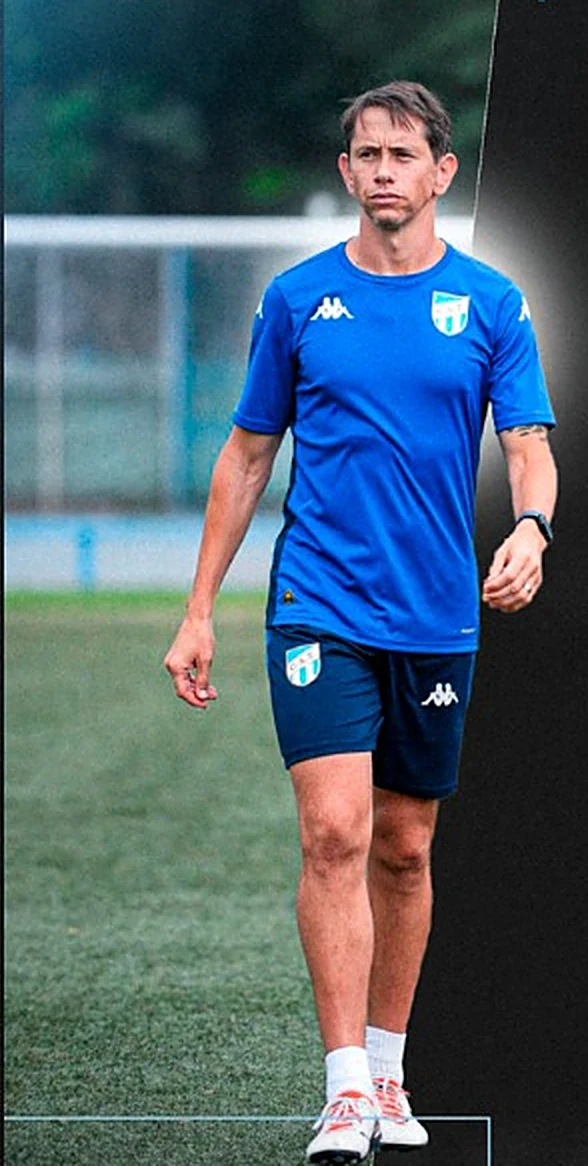
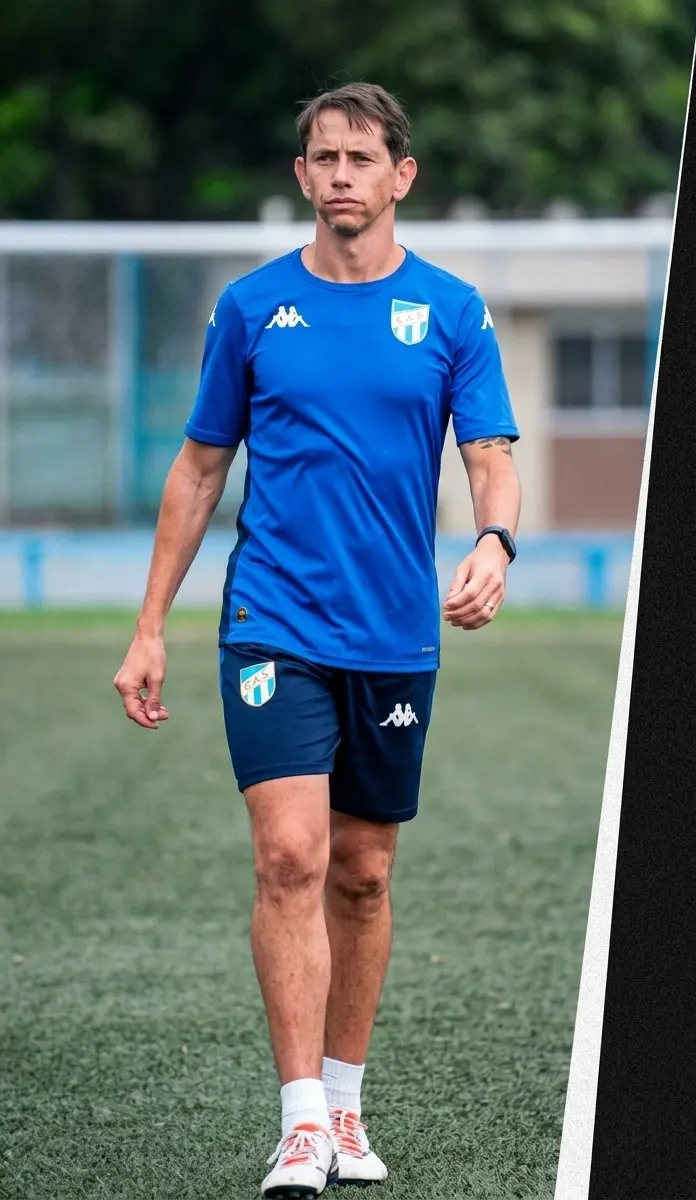
finals progress

diff --git a/src/components/Hero/Hero.jsx b/src/components/Hero/Hero.jsx
@@ -9,15 +9,6 @@ import '../../styles/globals.css'
 
 gsap.registerPlugin(ScrollTrigger)
 
-// ─────────────────────────────────────────────────────────────
-// HERO · Opción D "Coach Panel" (línea Rondelli)
-//  · Nombre gigante en 3 líneas detrás de la foto (outline / sólido / outline)
-//  · Foto principal revelada desde abajo (clip-path)
-//  · Foto secundaria en grises con máscara radial de fondo
-//  · Panel RG + datos exactos de la placa
-//  · Pestaña lateral de Partidos: último resultado + próximo (MatchBox)
-//  · Sticky 200vh + viñeta que se cierra con el scroll
-// ─────────────────────────────────────────────────────────────
 
 /* Número destacado dentro de "+160 partidos y 13 titulos" */
 function Num({ children }) {
@@ -26,7 +17,7 @@ function Num({ children }) {
       as="span"
       fontFamily="heading"
       color="brand.celeste"
-      fontSize="1.9em"
+      fontSize="1.5em"
       lineHeight={0.8}
       verticalAlign="-0.12em"
       letterSpacing="0.02em"
@@ -53,7 +44,7 @@ function CoachPanel() {
           sx={{ WebkitTextStroke: `2px ${celeste}` }}
           aria-hidden="true"
         >
-          {initials}
+          DT
         </Text>
         <Box className="hero-panel-item" w="1px" alignSelf="stretch" bg="brand.celeste" opacity={0.8} />
         <Flex
@@ -64,13 +55,13 @@ function CoachPanel() {
           letterSpacing="0.14em"
           textTransform="uppercase"
         >
-          <Text color="brand.celeste" fontWeight="700" fontSize="clamp(13px, 1.35vw, 24px)">
+          <Text color="brand.celeste" fontWeight="700" fontSize="clamp(13px, 1.35vw, 18px)">
             {hero.role}
           </Text>
-          <Text color="brand.bone" fontWeight="500" fontSize="clamp(12px, 1.25vw, 22px)">
+          <Text color="brand.bone" fontWeight="500" fontSize="clamp(12px, 1.25vw, 16px)">
             {hero.license}
           </Text>
-          <Text color="brand.bone" fontWeight="500" fontSize="clamp(12px, 1.25vw, 22px)">
+          <Text color="brand.bone" fontWeight="500" fontSize="clamp(12px, 1.25vw, 16px)">
             {hero.exPlayer}
           </Text>
         </Flex>
@@ -180,8 +171,8 @@ export default function Hero() {
           display="flex"
           justifyContent="center"
           alignItems="flex-start"
-          pt={{ base: '8vh', lg: '4vh' }}
-          pl={{ base: 0, lg: '6vw' }}
+          pt={{ base: '2vh', lg: '4vh' }}
+          pl={{ base: '50vw', lg: '56vw' }}
           sx={{
             maskImage: 'radial-gradient(120% 90% at 50% 30%, black 35%, transparent 78%)',
             WebkitMaskImage: 'radial-gradient(120% 90% at 50% 30%, black 35%, transparent 78%)',
@@ -214,25 +205,25 @@ export default function Hero() {
           justify="center"
           pl={{ base: 4, lg: '16vw' }}
           pr={{ base: 4, lg: 0 }}
-          pt={{ base: '14vh', lg: 0 }}
+          pt={{ base: '20vh', lg: 0 }}
           mt={{ base: 0, lg: '-12vh' }}
         >
           <Flex as="h1" direction="column" fontFamily="heading" lineHeight={0.9} letterSpacing="0.01em" m={0}>
             <Box as="span" display="block" overflow="hidden">
               <Box as="span" className="hero-name-line" display="block"
-                fontSize={{ base: '15vw', md: '11vw', lg: '9vw' }} sx={outline}>
+                fontSize={{ base: '22vw', md: '11vw', lg: '9vw' }} sx={outline}>
                 {l1}
               </Box>
             </Box>
             <Box as="span" display="block" overflow="hidden" mt={{ base: '-1vw', lg: '-1.2vw' }}>
               <Box as="span" className="hero-name-line" display="block"
-                fontSize={{ base: '22vw', md: '16vw', lg: '13vw' }} color="brand.bone">
+                fontSize={{ base: '29vw', md: '16vw', lg: '13vw' }} color="brand.bone">
                 {l2}
               </Box>
             </Box>
             <Box as="span" display="block" overflow="hidden" alignSelf="flex-end" mt={{ base: '-1vw', lg: '-1vw' }}>
               <Box as="span" className="hero-name-line" display="block"
-                fontSize={{ base: '15vw', md: '11vw', lg: '9vw' }} sx={outline}>
+                fontSize={{ base: '22vw', md: '11vw', lg: '9vw' }} sx={outline}>
                 {l3}
               </Box>
             </Box>
@@ -242,10 +233,10 @@ export default function Hero() {
         {/* Foto principal */}
         <Box
           position="absolute"
-          left={{ base: '50%', lg: '9vw' }}
+          left={{ base: '30%', lg: '15vw' }}
           transform={{ base: 'translateX(-35%)', lg: 'none' }}
           bottom={0}
-          h={{ base: '62vh', md: '68vh', lg: '93vh' }}
+          h={{ base: '64vh', md: '68vh', lg: '90vh' }}
           zIndex={9}
           pointerEvents="none"
         >
@@ -258,7 +249,7 @@ export default function Hero() {
               w="auto"
               maxW="none"
               draggable={false}
-              filter="drop-shadow(0 20px 40px rgba(0,0,0,0.55))"
+              
             />
           </Box>
         </Box>
@@ -291,19 +282,7 @@ export default function Hero() {
           <MatchBox last={matches.last} next={matches.next} />
         </Box>
 
-        {/* Indicador de scroll */}
-        <Box
-          className="hero-scroll-cue"
-          position="absolute"
-          left="50%"
-          bottom="2vh"
-          zIndex={18}
-          w="1px"
-          h="36px"
-          bgGradient={`linear(to-b, ${celeste}, transparent)`}
-          display={{ base: 'none', lg: 'block' }}
-          aria-hidden="true"
-        />
+       
 
         {/* Viñeta */}
         <Box

diff --git a/src/components/Career/CareerChapter.jsx b/src/components/Career/CareerChapter.jsx
@@ -6,17 +6,6 @@ import TacticsBoards from './TacticsBoards'
 
 gsap.registerPlugin(ScrollTrigger)
 
-// ─────────────────────────────────────────────────────────────
-// TRAYECTORIA · Capítulo de club (opción C "Capítulo")
-//  · Riel lateral con las fechas: la línea se llena con el scroll.
-//  · Título del club (contorno + sólido), escudo y totales con contador.
-//  · Funciones | Logros (trofeos + logros centrados debajo).
-//  · Rendimiento del equipo + Rachas destacadas.
-//  · Lema, párrafos con foto fija, responsabilidades y sistemas tácticos.
-// Cada bloque es opcional: se muestra solo si el club tiene esos datos.
-// Reutilizable: cada club es un objeto de careerData.js.
-// ─────────────────────────────────────────────────────────────
-
 /* Texto por segmentos (resaltado / negrita / cifra / chico) */
 function Segs({ segs, accent }) {
   return segs.map((s, i) => {
@@ -156,9 +145,9 @@ export default function CareerChapter({ club }) {
         right={{ base: '-30%', lg: '-6vw' }}
         top={{ base: 'auto', lg: '6vh' }}
         bottom={{ base: '30%', lg: 'auto' }}
-        h={{ base: '60vh', lg: '80vh' }}
+        h={{ base: '60vh', lg: '90vh' }}
         w="auto"
-        opacity={0.05}
+        opacity={0.07}
         filter="grayscale(1)"
         pointerEvents="none"
       />
@@ -292,44 +281,48 @@ export default function CareerChapter({ club }) {
                 </Flex>
               ))}
             </Grid>
-
-            {/* Logros centrados debajo de las copas */}
-            <Grid
-              as="ul"
-              className="cc-achs"
-              listStyleType="none"
-              m={0}
-              mt={{ base: 8, lg: '4vh' }}
-              p={0}
-              templateColumns="repeat(2, minmax(0,1fr))"
-              gap="1px"
-              bg="brand.linea"
-              border="1px solid"
-              borderColor="brand.linea"
-            >
-              {achievements.map((segs, i) => (
-                <Flex
-                  as="li"
-                  key={i}
-                  className="cc-ach"
-                  direction="column"
-                  align="center"
-                  justify="center"
-                  gap={2}
-                  textAlign="center"
-                  bg="brand.ink"
-                  px={{ base: 3, lg: 4 }}
-                  py={{ base: 5, lg: '2.6vh' }}
-                >
-                  <Box boxSize="8px" borderRadius="full" bg={accent} boxShadow={`0 0 0 3px ${accent}26`} />
-                  <Text fontSize={{ base: '15px', lg: 'clamp(14px, 1.05vw, 17px)' }} lineHeight={1.35} color="brand.bone" sx={{ textWrap: 'balance' }}>
-                    <Segs segs={segs} accent={accent} />
-                  </Text>
-                </Flex>
-              ))}
-            </Grid>
           </Box>
         </Grid>
+        )}
+
+        {/* Logros a lo ancho, al pie de Funciones | Logros */}
+        {achievements && (
+          <Grid
+            as="ul"
+            className="cc-achs"
+            listStyleType="none"
+            m={0}
+            mt={{ base: 10, lg: '6vh' }}
+            p={0}
+            templateColumns={{ base: 'repeat(2, minmax(0,1fr))', lg: `repeat(${achievements.length}, minmax(0,1fr))` }}
+            borderTop="1px solid"
+            borderLeft="1px solid"
+            borderColor="brand.linea"
+          >
+            {achievements.map((segs, i) => (
+              <Flex
+                as="li"
+                key={i}
+                className="cc-ach"
+                direction="column"
+                align="center"
+                justify="center"
+                gap={2}
+                textAlign="center"
+                bg="brand.ink"
+                borderRight="1px solid"
+                borderBottom="1px solid"
+                borderColor="brand.linea"
+                px={{ base: 3, lg: 4 }}
+                py={{ base: 5, lg: '3vh' }}
+              >
+                <Box boxSize="8px" borderRadius="full" bg={accent} boxShadow={`0 0 0 3px ${accent}26`} />
+                <Text fontSize={{ base: '15px', lg: 'clamp(14px, 1.05vw, 17px)' }} lineHeight={1.35} color="brand.bone" sx={{ textWrap: 'balance' }}>
+                  <Segs segs={segs} accent={accent} />
+                </Text>
+              </Flex>
+            ))}
+          </Grid>
         )}
 
         {/* Párrafos + foto fija */}

diff --git a/src/components/Media/MediaSection.jsx b/src/components/Media/MediaSection.jsx
@@ -8,14 +8,6 @@ import { media } from '../../data/mediaData'
 
 gsap.registerPlugin(ScrollTrigger)
 
-// ─────────────────────────────────────────────────────────────
-// MEDIA · opción B "Destacado"
-//  · Una nota grande (pantalla según el tipo) + la lista de las 9 al
-//    costado; al tocar una fila pasa a destacada.
-//  · Instagram: mosaico (1 grande + 4 chicas) con las publicaciones
-//    cargadas a mano desde /admin; todas llevan al perfil o al post.
-// ─────────────────────────────────────────────────────────────
-
 const HOVER = '@media (hover: hover) and (pointer: fine)'
 
 function IgIcon(props) {
@@ -98,8 +90,9 @@ export default function MediaSection() {
     <Box as="section" id="media" ref={ref} aria-labelledby="md-title" bg="brand.ink" borderTop="1px solid" borderColor="brand.linea">
       {/* ── Notas ── */}
       <Box px={{ base: 5, md: 10, lg: '6vw' }} py={{ base: 20, lg: '12vh' }}>
+       <Box maxW="1400px" mx="auto">
         <Text as="h2" id="md-title" className="md-title" fontFamily="heading" fontWeight="400" lineHeight={0.85} letterSpacing="0.03em"
-          fontSize={{ base: '84px', md: '120px', lg: 'clamp(110px, 11vw, 190px)' }}>
+          fontSize={{ base: '56px', md: '80px', lg: 'clamp(72px, 7vw, 124px)' }}>
           {media.title}
         </Text>
 
@@ -151,10 +144,12 @@ export default function MediaSection() {
             })}
           </Box>
         </Grid>
+       </Box>
       </Box>
 
       {/* ── Instagram ── */}
       <Box px={{ base: 5, md: 10, lg: '6vw' }} pb={{ base: 20, lg: '12vh' }}>
+       <Box maxW="1400px" mx="auto">
         <Flex wrap="wrap" justify="space-between" align="flex-end" gap={4} mb={{ base: 6, lg: '4vh' }}
           pt={{ base: 12, lg: '8vh' }} borderTop="1px solid" borderColor="brand.linea">
           <Flex align="center" gap={3.5}>
@@ -175,6 +170,7 @@ export default function MediaSection() {
             {posts.slice(0, 5).map((p, i) => <IgTile key={p.id} post={p} big={i === 0} />)}
           </Grid>
         )}
+       </Box>
       </Box>
     </Box>
   )

diff --git a/src/components/Contact/ContactSection.jsx b/src/components/Contact/ContactSection.jsx
@@ -6,13 +6,6 @@ import { coachData } from '../../data/coachData'
 
 gsap.registerPlugin(ScrollTrigger)
 
-// ─────────────────────────────────────────────────────────────
-// CONTACTO · opción B "Banda" (rediseñada)
-//  · 50 % izquierda: título "CONTACTO" + texto exacto de la placa.
-//  · 50 % derecha: banda con los 5 accesos (solo ícono + nombre) en una
-//    sola fila; al pasar el mouse cada celda se llena de celeste.
-//  · Móvil: el texto arriba y la banda debajo, también en una fila.
-// ─────────────────────────────────────────────────────────────
 
 const HOVER = '@media (hover: hover) and (pointer: fine)'
 const EASE = 'cubic-bezier(0.23, 1, 0.32, 1)'
@@ -128,7 +121,7 @@ export default function ContactSection() {
           <Flex direction="column" gap={4} mt={{ base: 6, lg: '4vh' }} pl={{ base: 4, lg: 6 }}
             borderLeft="2px solid" borderColor="brand.celeste" maxW="60ch">
             {paragraphs.map((p) => (
-              <Text key={p} className="ct-p" fontSize={{ base: '17px', lg: 'clamp(16px, 1.3vw, 21px)' }} lineHeight={1.55}
+              <Text key={p} className="ct-p" fontSize={{ base: '17px', lg: 'clamp(16px, 1.3vw, 21px)' }} fontStyle={'italic'} lineHeight={1.55}
                 color="brand.bone" sx={{ textWrap: 'pretty' }}>
                 {p}
               </Text>

diff --git a/src/data/coachData.js b/src/data/coachData.js
@@ -62,8 +62,8 @@ export const coachData = {
   contact: {
     title: 'CONTACTO',
     paragraphs: [
-      'Considero que el verdadero valor del trabajo en el fútbol se aprecia al explorarlo en profundidad y en acción. Cada uno de los puntos compartidos en este documento pueden desarrollarse con mayor detalle.',
-      'Creo en la conexiones a largo plazo, en el intercambio genuino de ideas, y en la búsqueda constante de ser mejores cada día. Si compartimos esa visión: hablemos!',
+      '" Considero que el verdadero valor del trabajo en el fútbol se aprecia al explorarlo en profundidad y en acción. Cada uno de los puntos compartidos en este documento pueden desarrollarse con mayor detalle.',
+      'Creo en la conexiones a largo plazo, en el intercambio genuino de ideas, y en la búsqueda constante de ser mejores cada día. Si compartimos esa visión: hablemos! "',
     ],
   },
 
